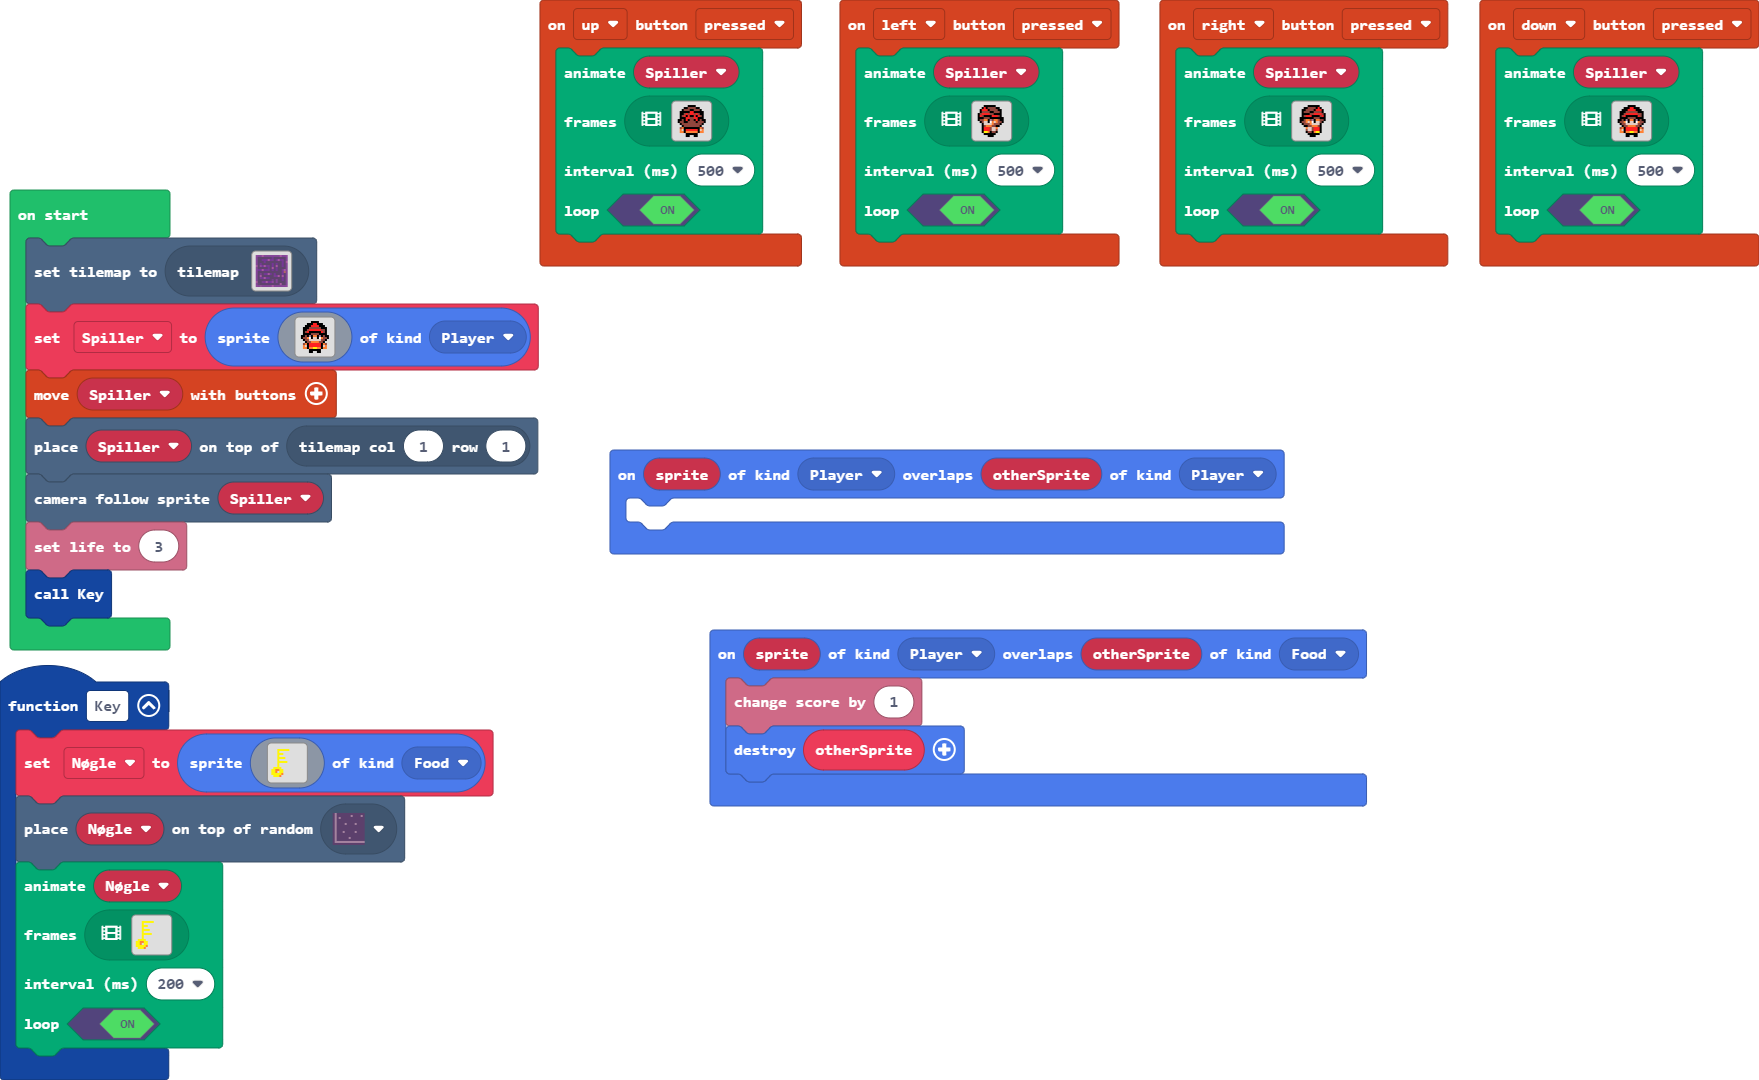
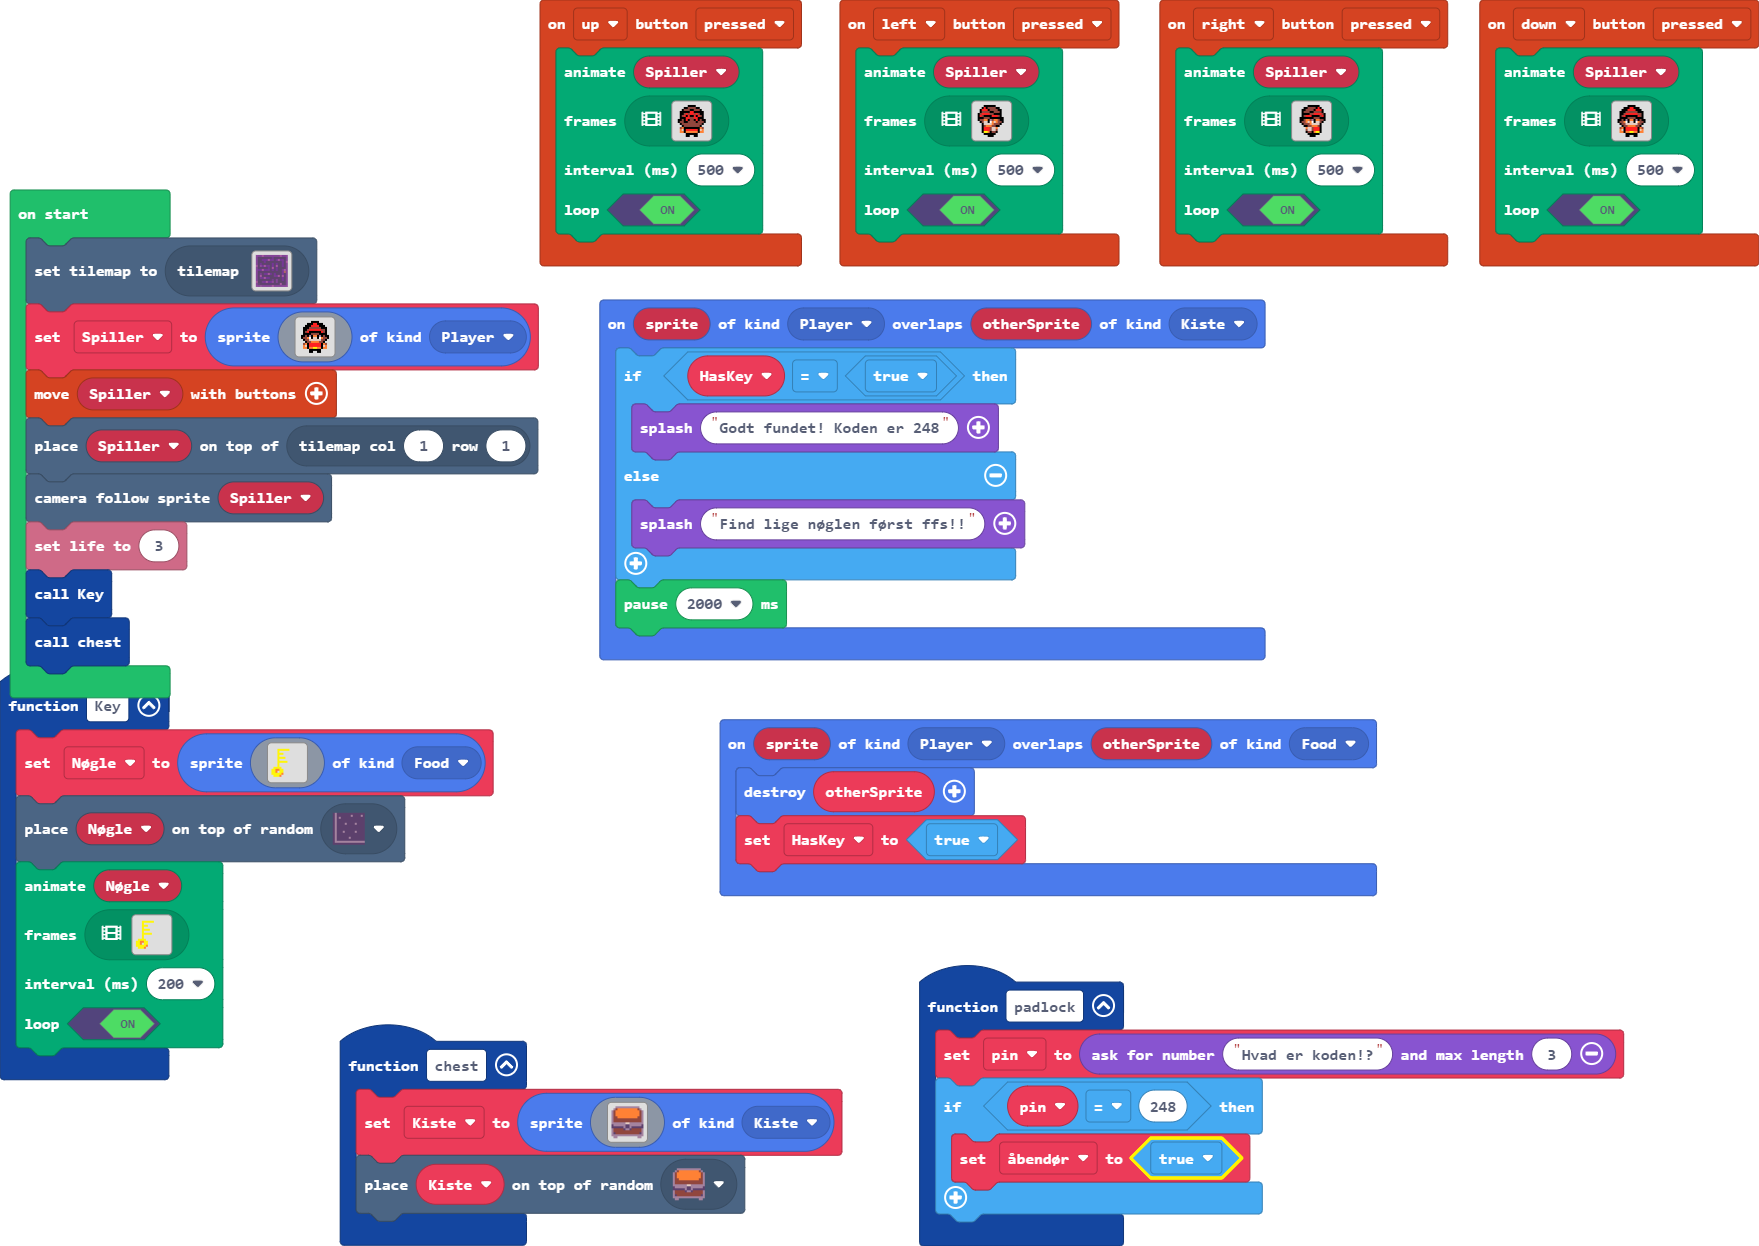
Update main.blocks, main.ts, images.g.jres, images.g.ts

diff --git a/main.ts b/main.ts
@@ -1,3 +1,6 @@
+namespace SpriteKind {
+    export const Kiste = SpriteKind.create()
+}
 controller.up.onEvent(ControllerButtonEvent.Pressed, function () {
     animation.runImageAnimation(
     Spiller,
@@ -24,6 +27,10 @@ controller.left.onEvent(ControllerButtonEvent.Pressed, function () {
     true
     )
 })
+function chest () {
+    Kiste = sprites.create(assets.image`LukketKiste`, SpriteKind.Kiste)
+    tiles.placeOnRandomTile(Kiste, sprites.dungeon.chestClosed)
+}
 controller.right.onEvent(ControllerButtonEvent.Pressed, function () {
     animation.runImageAnimation(
     Spiller,
@@ -32,6 +39,20 @@ controller.right.onEvent(ControllerButtonEvent.Pressed, function () {
     true
     )
 })
+sprites.onOverlap(SpriteKind.Player, SpriteKind.Kiste, function (sprite, otherSprite) {
+    if (HasKey == true) {
+        game.splash("Godt fundet! Koden er 248")
+    } else {
+        game.splash("Find lige nøglen først ffs!!")
+    }
+    pause(2000)
+})
+function padlock () {
+    pin = game.askForNumber("Hvad er koden!?", 3)
+    if (pin == 248) {
+        åbendør = true
+    }
+}
 controller.down.onEvent(ControllerButtonEvent.Pressed, function () {
     animation.runImageAnimation(
     Spiller,
@@ -40,13 +61,14 @@ controller.down.onEvent(ControllerButtonEvent.Pressed, function () {
     true
     )
 })
-sprites.onOverlap(SpriteKind.Player, SpriteKind.Player, function (sprite, otherSprite) {
-	
-})
 sprites.onOverlap(SpriteKind.Player, SpriteKind.Food, function (sprite, otherSprite) {
-    info.changeScoreBy(1)
     sprites.destroy(otherSprite)
+    HasKey = true
 })
+let åbendør = false
+let pin = 0
+let HasKey = false
+let Kiste: Sprite = null
 let Nøgle: Sprite = null
 let Spiller: Sprite = null
 tiles.setCurrentTilemap(tilemap`level0`)
@@ -73,3 +95,4 @@ tiles.placeOnTile(Spiller, tiles.getTileLocation(1, 1))
 scene.cameraFollowSprite(Spiller)
 info.setLife(3)
 Key()
+chest()

diff --git a/images.g.ts b/images.g.ts
@@ -60,6 +60,25 @@ namespace myImages {
 . 5 5 5 4 . . . . . . . . . . . 
 . . . . . . . . . . . . . . . . 
 `;
+            case "image3":
+            case "LukketKiste":return img`
+. . b b b b b b b b b b b b . . 
+. b e 4 4 4 4 4 4 4 4 4 4 e b . 
+b e 4 4 4 4 4 4 4 4 4 4 4 4 e b 
+b e 4 4 4 4 4 4 4 4 4 4 4 4 e b 
+b e 4 4 4 4 4 4 4 4 4 4 4 4 e b 
+b e e 4 4 4 4 4 4 4 4 4 4 e e b 
+b e e e e e e e e e e e e e e b 
+b e e e e e e e e e e e e e e b 
+b b b b b b b d d b b b b b b b 
+c b b b b b b c c b b b b b b c 
+c c c c c c b c c b c c c c c c 
+b e e e e e c b b c e e e e e b 
+b e e e e e e e e e e e e e e b 
+b c e e e e e e e e e e e e c b 
+b b b b b b b b b b b b b b b b 
+. b b . . . . . . . . . . b b . 
+`;
         }
         return null;
     })
